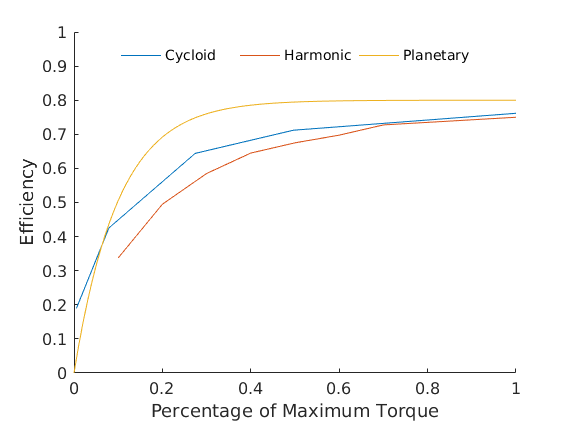
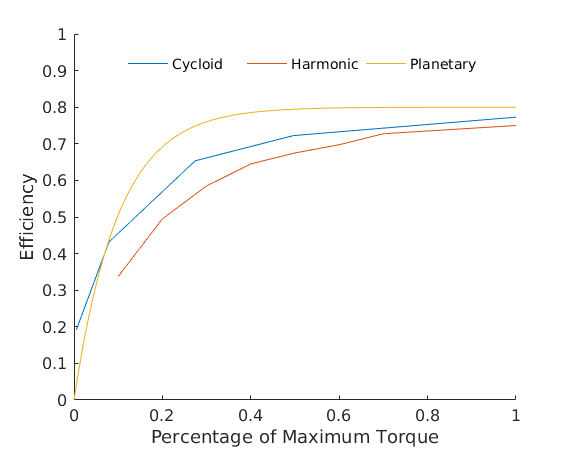
updated plots and 77% to 80%

diff --git a/sections/conclusion.tex b/sections/conclusion.tex
@@ -1,4 +1,4 @@
-The aim of this work was to determine the in-use characteristics of a cycloidal drive designed for a robotic application through an extended break-in test and efficiency testing. Through the work, this study demonstrates a cycloidal actuator with a ratio of 59:1 and three phased cycloid disks that achieves a maximum efficiency of 77\% and does not show a constant efficiency through its torque profile as suggested by previous sources.
+The aim of this work was to determine the in-use characteristics of a cycloidal drive designed for a robotic application through an extended break-in test and efficiency testing. Through the work, this study demonstrates a cycloidal actuator with a ratio of 59:1 and three phased cycloid disks that achieves a maximum efficiency of 80\% and does not show a constant efficiency through its torque profile as suggested by previous sources.
 This research shows that these drives efficiencies behave very similarly to other typical reduction drives for similar applications like Harmonic Drives and Planetary gears.
 This actuator compares closely to its Harmonic Drive counterpart in efficiency performance.
 If backlash is acceptable in the system, a cycloidal drive has the distinct advantage of being customized into the housing using simple manufacturing techniques allowing tighter integration into a robotic system as well as a potential 2x torque density gain.

diff --git a/sections/abstract.tex b/sections/abstract.tex
@@ -3,6 +3,6 @@ Cycloidal drives have the ability to customize a high reduction drive that can c
 These compact style cycloidal drives have been well studied in theory and simulation for their performance, but very little data is available on their actual performance over time. 
 This paper presents experimental data on performance of a cycloidal drive designed for a robotic application. 
 Burn-in time efficiency curves, and efficiency profiles over time are computer after running the drive through 51K output cycles (3M input cycles) over the course of 111 hours of testing. 
-The study finds that substantial burn-in time may be required for steady-state performance, but peak efficiencies of 77\% can be achieved. 
+The study finds that substantial burn-in time may be required for steady-state performance, but peak efficiencies of 80\% can be achieved. 
 Also, the efficiency is shown to be dependant on the torque through the actuator.
 This work demonstrates a customized cycloidal drive in a robotic application that is comparable to a harmonic drive in performance, suggesting the application of cycloidal drives could grow tremendously in robotic designs. 
